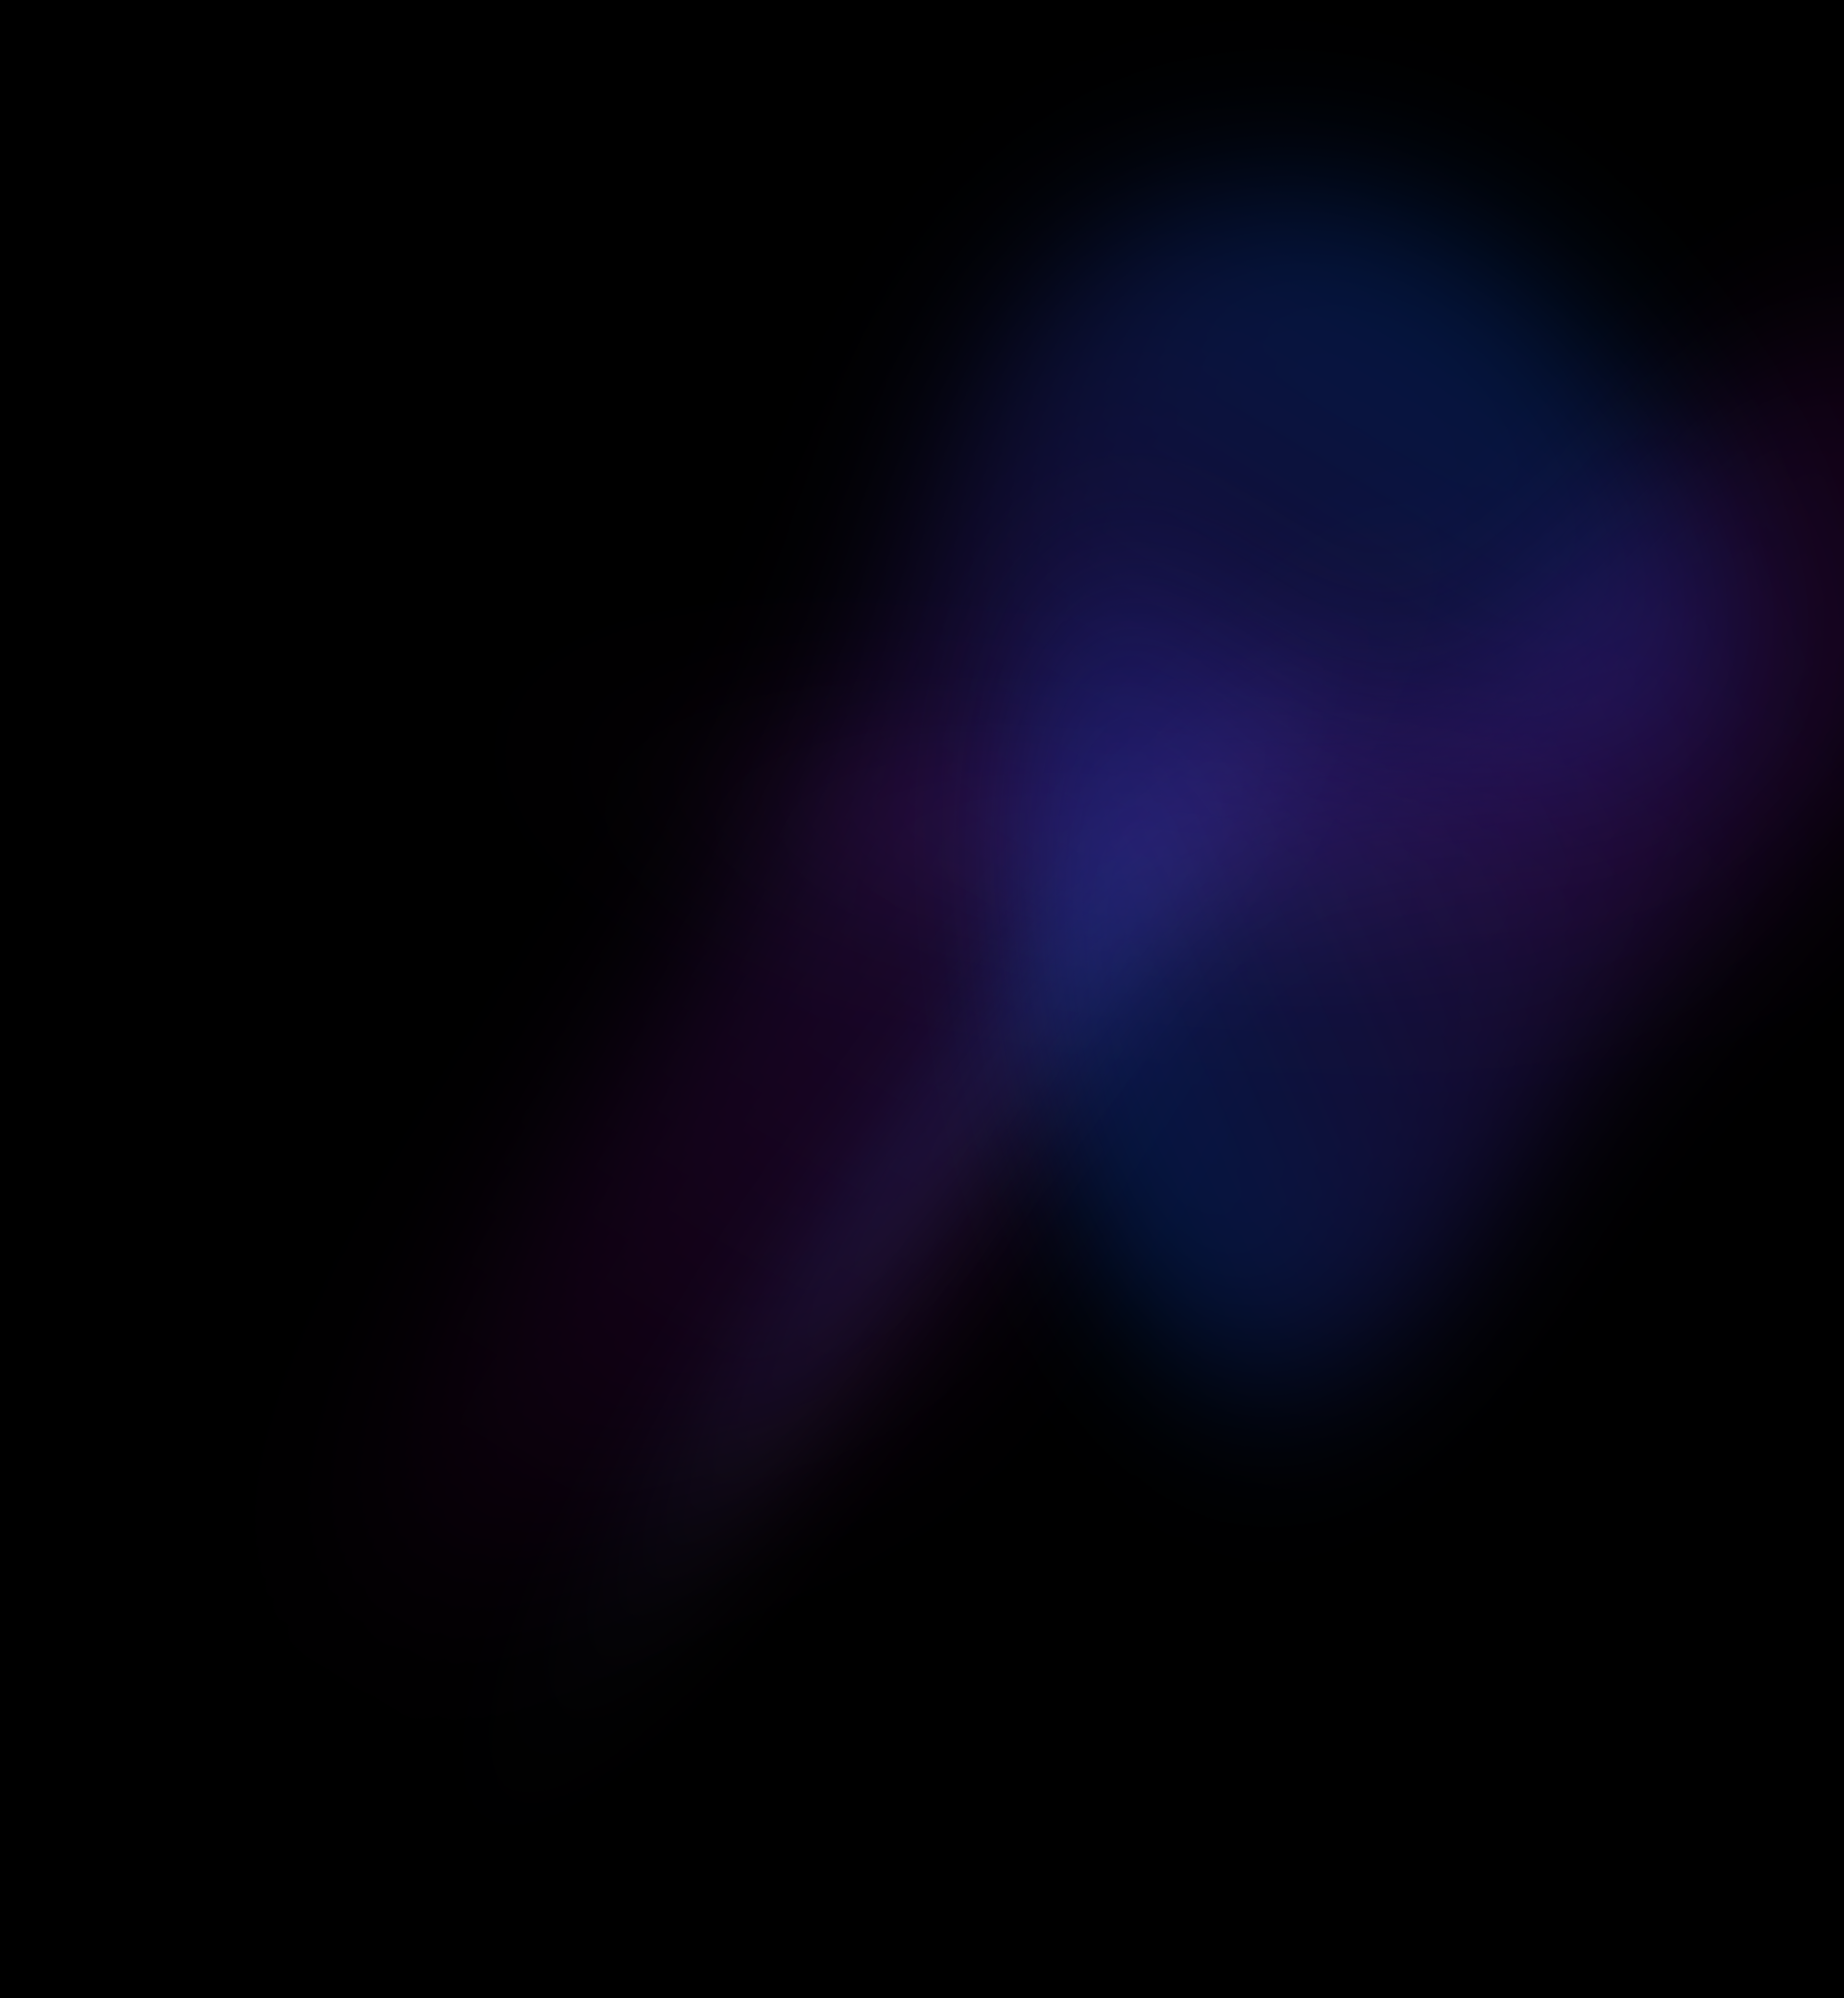
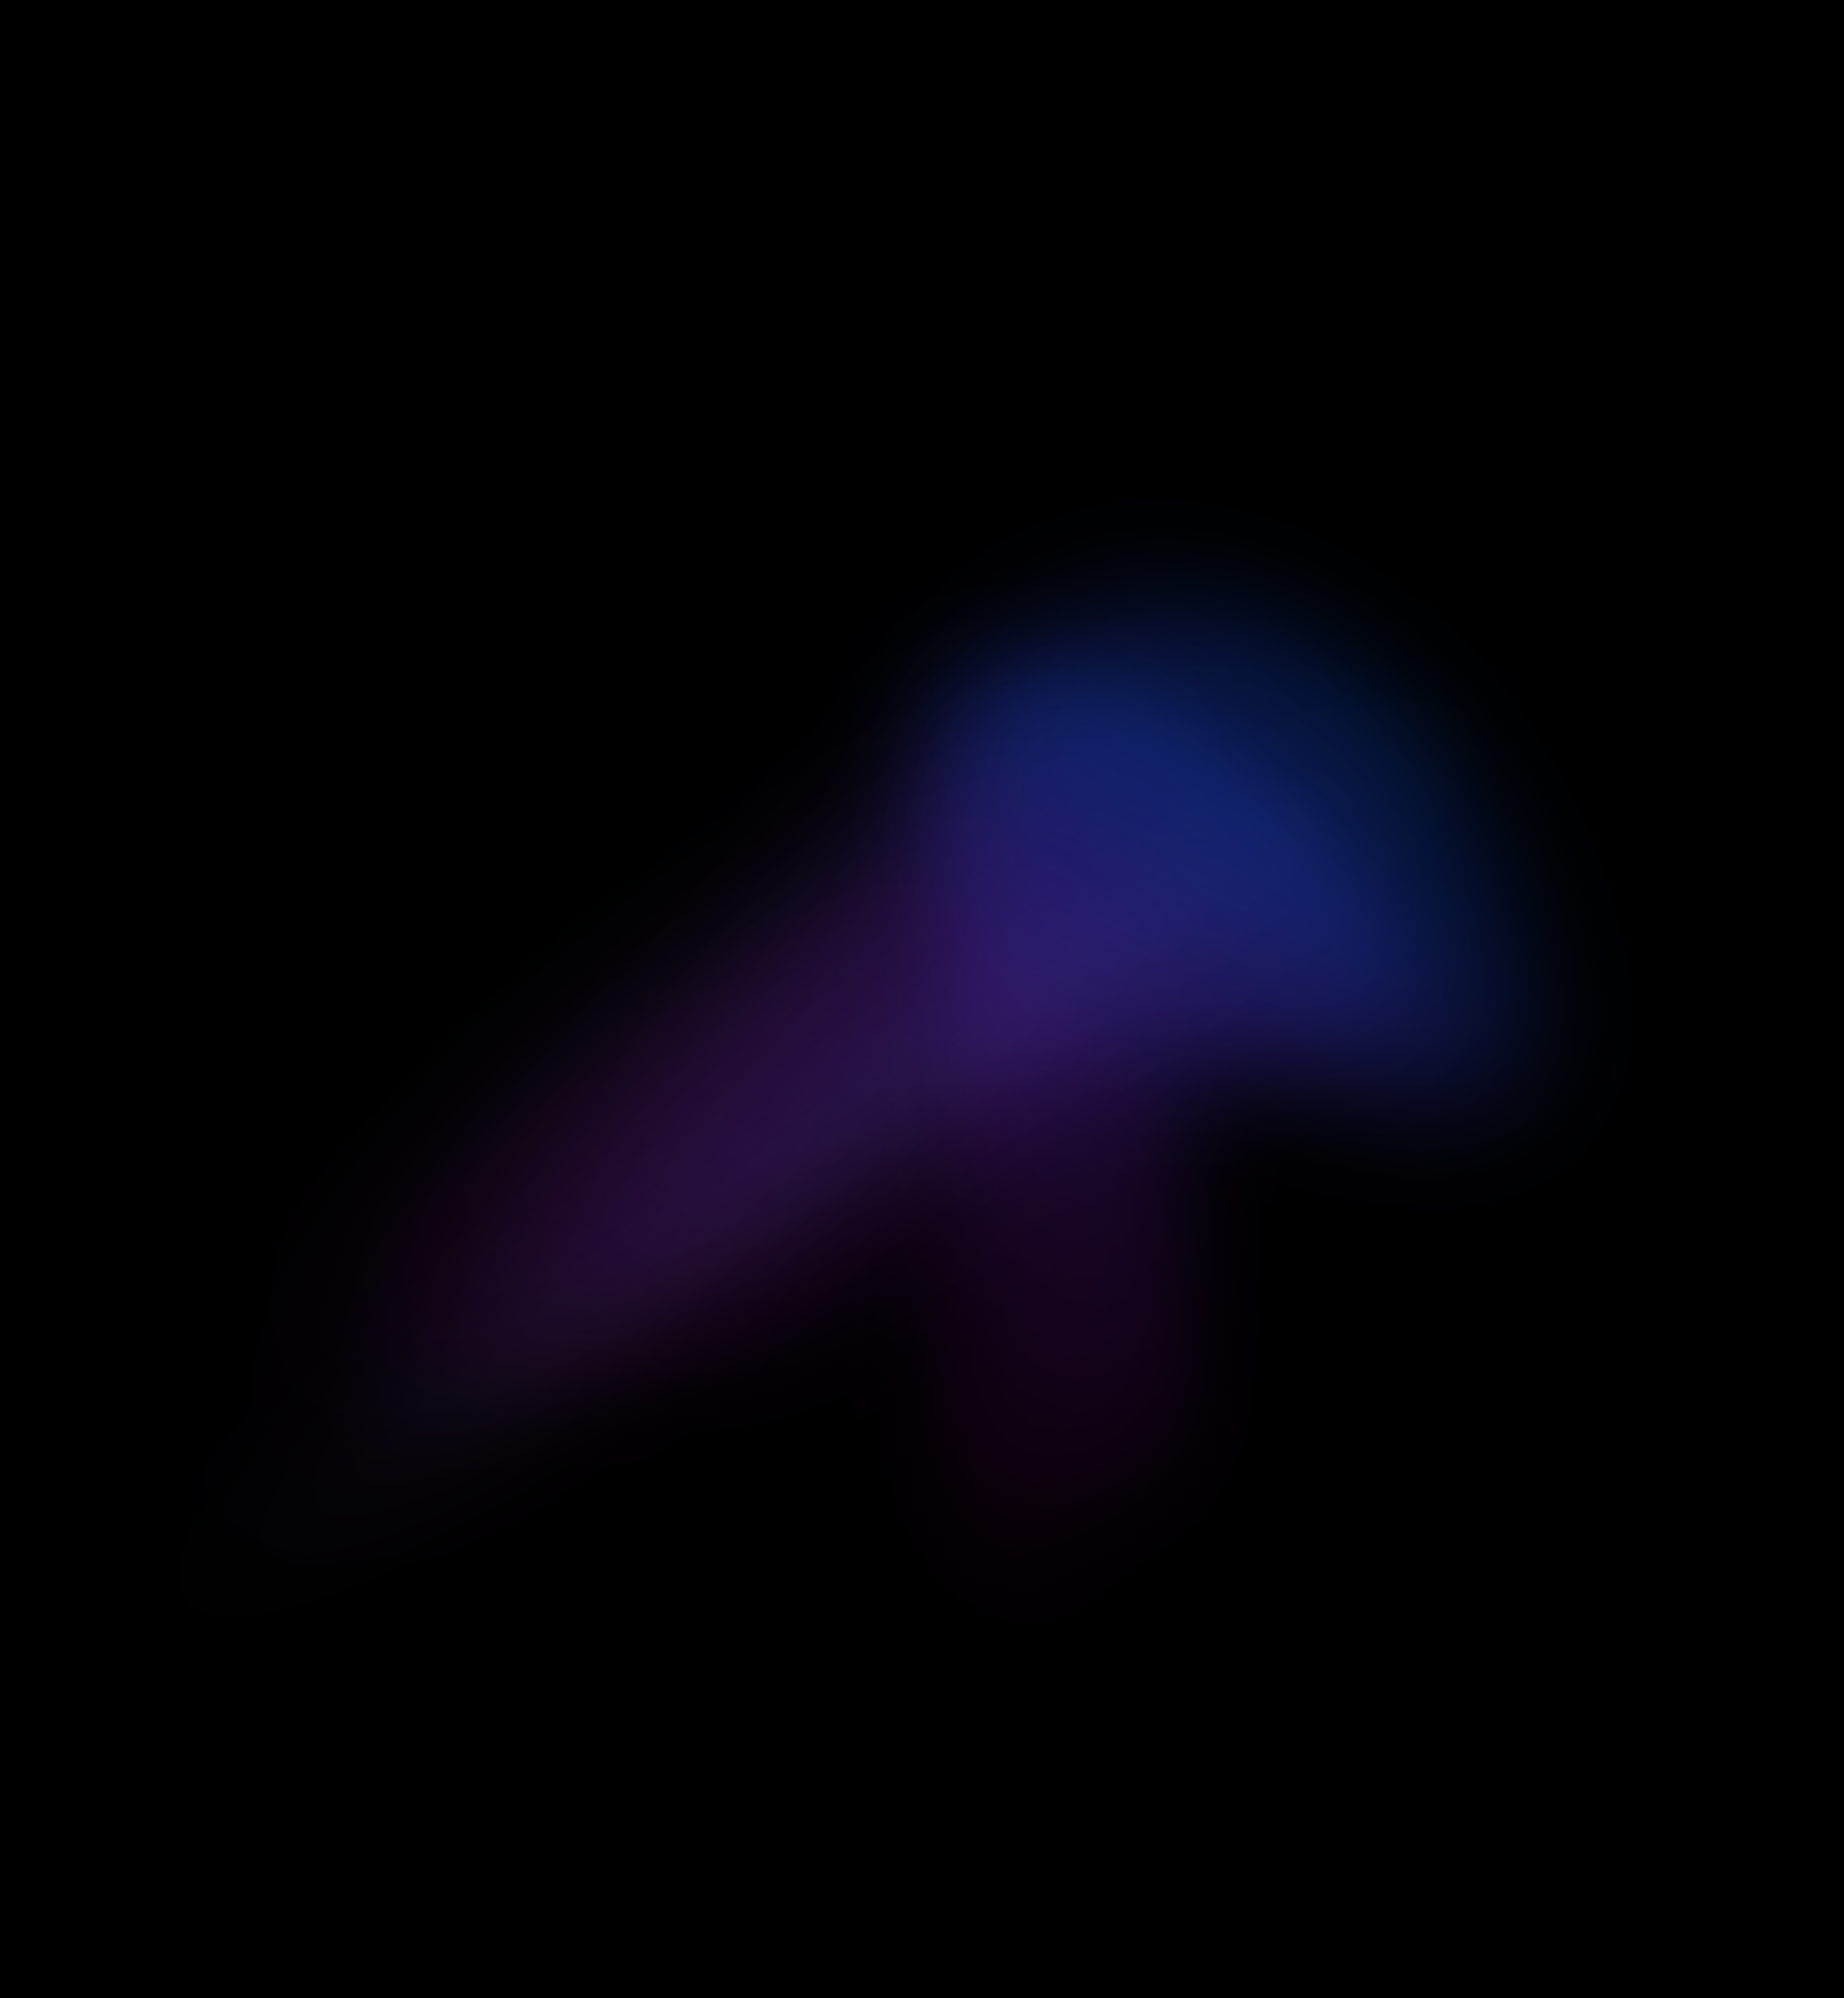
Update section backgrounds

diff --git a/src/css/modules/_sections.scss b/src/css/modules/_sections.scss
@@ -57,6 +57,8 @@
     background-size: cover;
     min-height: 800px;
 
+    background-attachment: fixed;
+
     // Left-align subtitles in About section (optional override)
     .section__subtitle {
       text-align: left;
@@ -81,6 +83,8 @@
     background-size: cover;
     min-height: 100vh;
 
+    background-attachment: fixed;
+
     // Left-align subtitles in Resources section
     .section__subtitle {
       text-align: left;
@@ -98,6 +102,8 @@
     background-size: cover;
     min-height: 100vh;
 
+    background-attachment: fixed;
+
     // Left-align subtitles in Hardware section (optional override)
     .section__subtitle {
       text-align: left;
@@ -114,6 +120,27 @@
     background-position: center bottom;
     background-size: cover;
     min-height: 100vh;
+
+    background-attachment: fixed;
+
+    // Left-align subtitles in Hardware section (optional override)
+    .section__subtitle {
+      text-align: left;
+      margin-left: 0;
+      margin-right: auto;
+    }
+  }
+
+    &--vr-wearable {
+    min-height: 100vh;
+
+    background: url('../images/VRWearableBackground.png') no-repeat center bottom;
+    background-repeat: no-repeat;
+    background-position: center bottom;
+    background-size: cover;
+    min-height: 100vh;
+
+    background-attachment: fixed;
 
     // Left-align subtitles in Hardware section (optional override)
     .section__subtitle {

diff --git a/src/components/communication.html b/src/components/communication.html
@@ -17,9 +17,9 @@
 
       <div class="row justify-content-center mb-4">
         <div class="col-9 text-center">
-          <img src="images/communication Interface.png"
+          <img src="images/ArduinoPlatform.PNG"
                alt="Communication Interface"
-               class="img-fluid rounded shadow system-design-img">
+               class="img-fluid rounded shadow-none system-design-img">
         </div>
       </div> 
 

diff --git a/src/js/code-snippet.js b/src/js/code-snippet.js
@@ -21,6 +21,9 @@ export async function initCodeSnippets() {
     // 2) highlight
     hljs.highlightElement(codeEl);
 
+    wrapper.classList.add('open');
+    btnToggle.setAttribute('aria-expanded', 'true');
+
     // 3) copy
     btnCopy.addEventListener('click', async () => {
       try {
